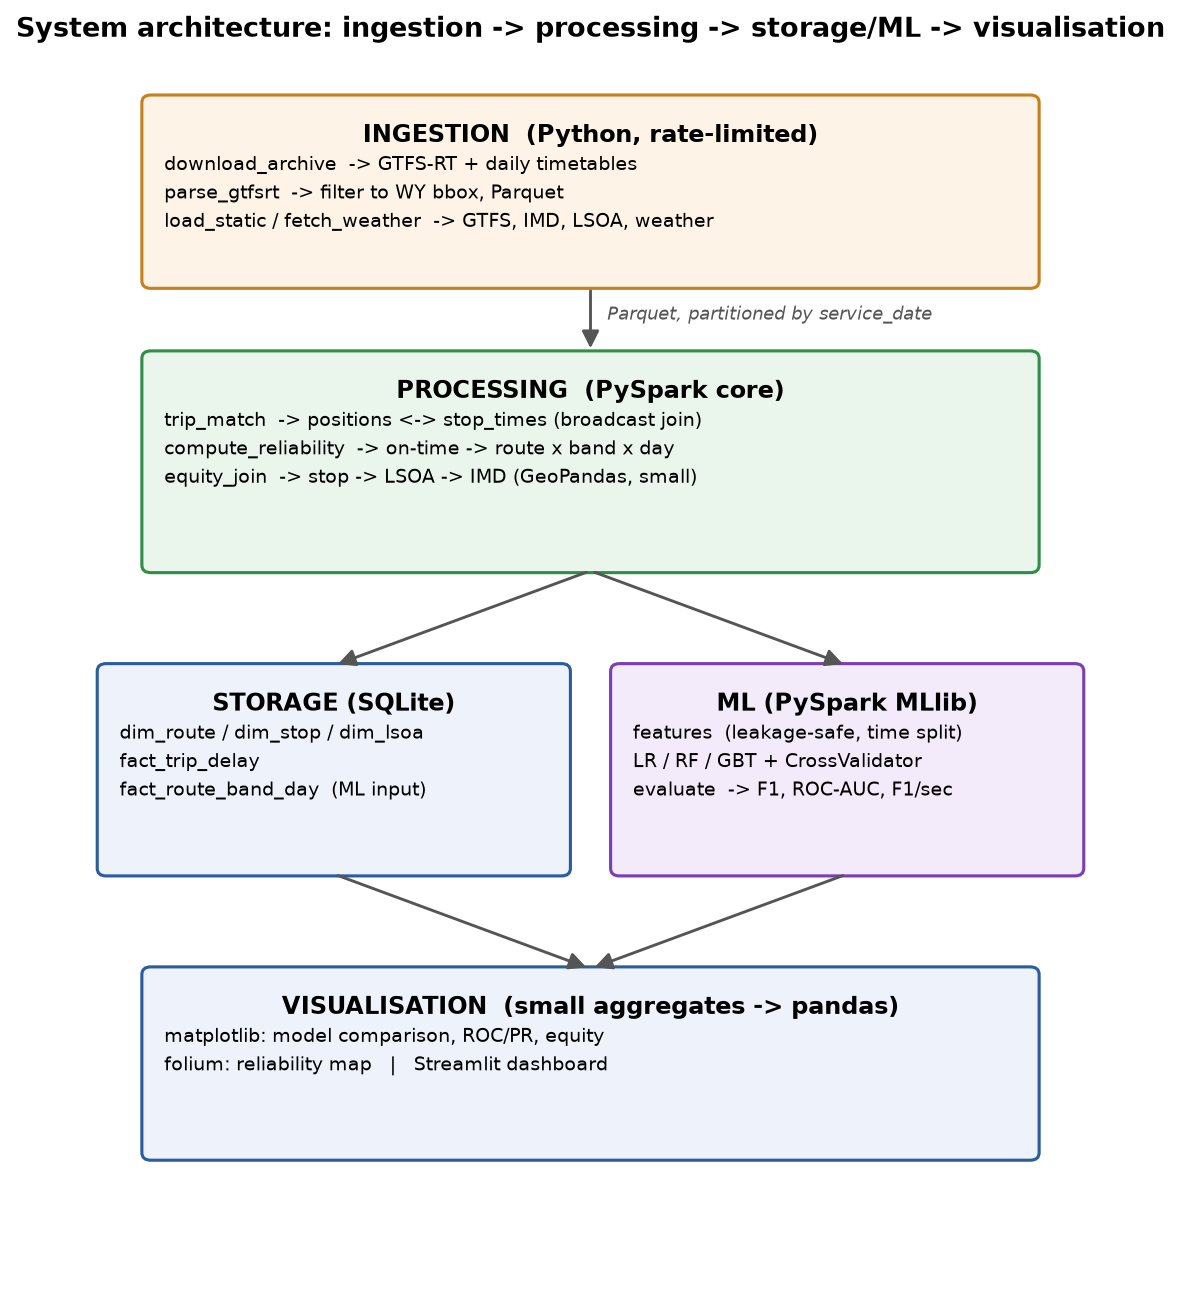
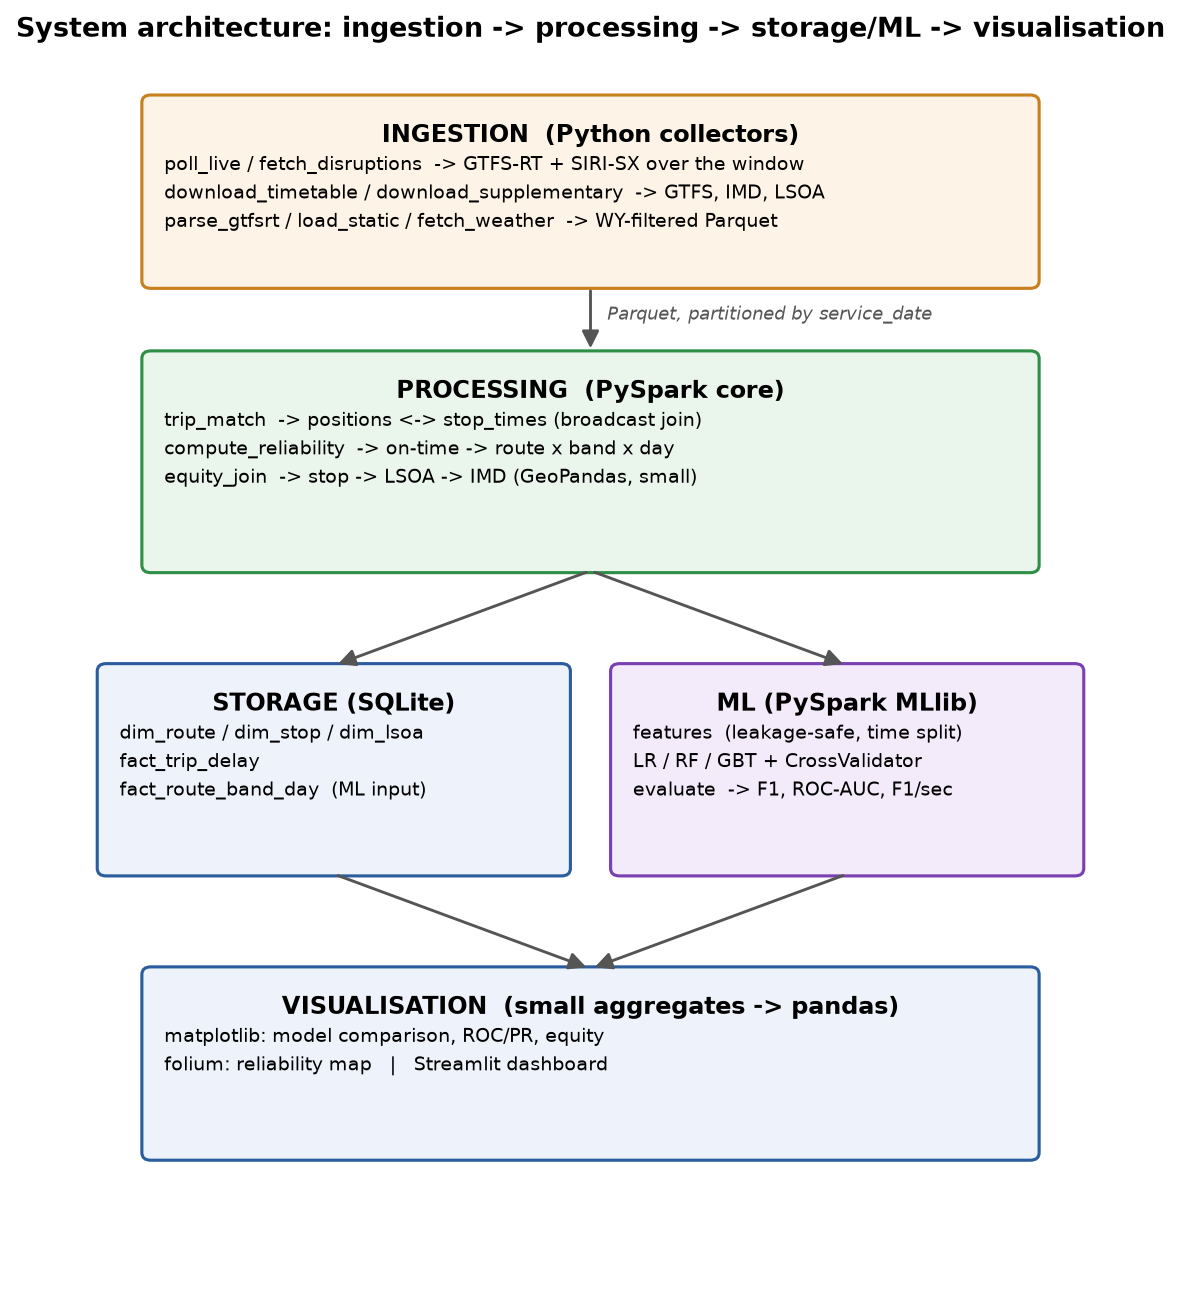
Remove the unused archive-download path; diagram reflects the live collectors

Changed region(s): [[0.1219, 0.0918, 0.7011, 0.1836]]

diff --git a/tests/test_metrics.py b/tests/test_metrics.py
@@ -1,7 +1,6 @@
 import numpy as np
 import pandas as pd
 
-from src.ingest.download_archive import RateLimiter
 from src.ml.evaluate import _curve_points
 
 
@@ -22,13 +21,3 @@ def test_curve_points_endpoints():
     assert roc.iloc[0].tolist() == [0.0, 0.0]   # curve starts at origin
     assert np.isclose(roc.iloc[-1].fpr, 1.0)
     assert np.isclose(roc.iloc[-1].tpr, 1.0)
-
-
-def test_rate_limiter_spaces_calls():
-    import time
-
-    rl = RateLimiter(per_second=20)  # 50 ms gap
-    rl.wait()
-    t0 = time.monotonic()
-    rl.wait()
-    assert time.monotonic() - t0 >= 0.04

diff --git a/tools/make_diagrams.py b/tools/make_diagrams.py
@@ -39,10 +39,10 @@ def architecture() -> None:
     ax.set_title("System architecture: ingestion -> processing -> storage/ML -> visualisation",
                  fontsize=12, fontweight="bold", pad=10)
 
-    _box(ax, 1, 10.6, 8, 2.0, "INGESTION  (Python, rate-limited)",
-         ["download_archive  -> GTFS-RT + daily timetables",
-          "parse_gtfsrt  -> filter to WY bbox, Parquet",
-          "load_static / fetch_weather  -> GTFS, IMD, LSOA, weather"],
+    _box(ax, 1, 10.6, 8, 2.0, "INGESTION  (Python collectors)",
+         ["poll_live / fetch_disruptions  -> GTFS-RT + SIRI-SX over the window",
+          "download_timetable / download_supplementary  -> GTFS, IMD, LSOA",
+          "parse_gtfsrt / load_static / fetch_weather  -> WY-filtered Parquet"],
          fc="#fdf3e7", ec="#c8801f")
     _box(ax, 1, 7.6, 8, 2.3, "PROCESSING  (PySpark core)",
          ["trip_match  -> positions <-> stop_times (broadcast join)",